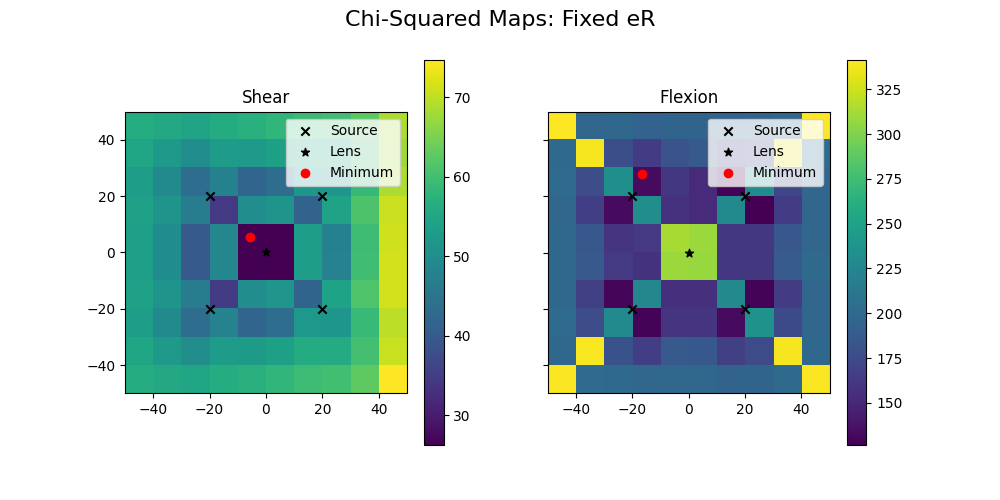
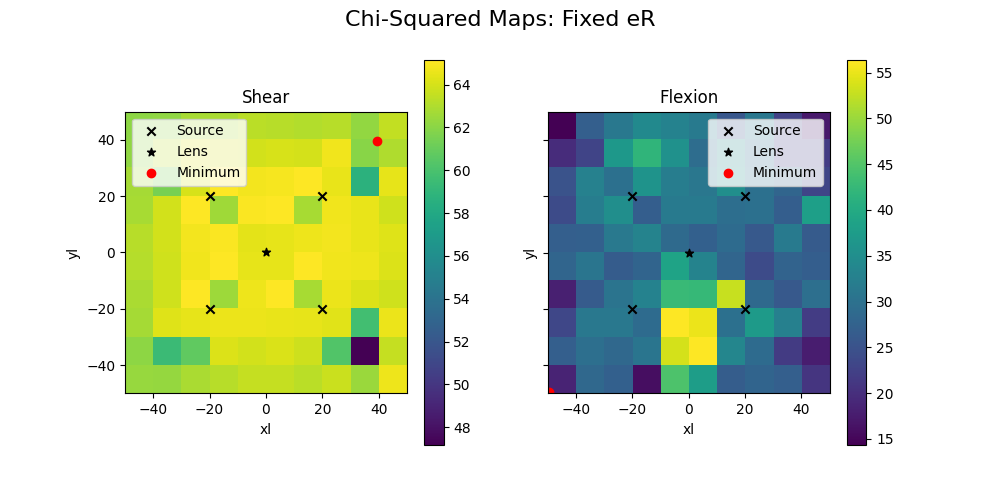
Update to minimization scheme

diff --git a/tests.py b/tests.py
@@ -288,7 +288,11 @@ def minimization_test():
     true_weights = []
     true_weights.append(np.exp(np.sum(np.log(np.array(shear_weights)), axis=0)))
     true_weights.append(np.exp(np.sum(np.log(np.array(flex_weights)), axis=0)))
-    
+    #Normalize
+    for i in range(len(true_weights)):
+        true_weights[i] /= np.sum(true_weights[i])
+
+
     #Okay, now try to reconstruct the weights by varying lens parameters, computing the weights, and then comparing the results
     #to the true weights. The goal is to find the lens parameters that minimize the difference between the true weights and the
     #reconstructed weights
@@ -300,19 +304,21 @@ def minimization_test():
         test_sources = Source(xs,ys,np.zeros(Nsource), np.zeros(Nsource), np.zeros(Nsource), np.zeros(Nsource))
         test_sources.calc_flex(test_lens)
         test_sources.calc_shear(test_lens)
-        test_weights = test_sources.weights(size,sigma_f=flex_noise,sigma_g=shear_noise, eRmin=1, eRmax=30)
-        return test_weights
+        shear_test, flex_text = test_sources.weights(size,sigma_f=flex_noise,sigma_g=shear_noise, eRmin=1, eRmax=30)
+        return shear_test, flex_text
     
     #Now perform a chi-squared minimization to find the best fit parameters
     #We need to define a function that takes in a set of lens parameters and returns the chi-squared value
-    def chi_squared(params, sigma1, sigma2):
+    def chi_squared(params):
         shear_test, flex_test = get_weights(params) #Get the weights
         shear_test = np.exp(np.sum(np.log(np.array(shear_test)), axis=0)) #Take the product of the weights in log space
         flex_test = np.exp(np.sum(np.log(np.array(flex_test)), axis=0))
+        #Normalize
+        shear_test /= np.sum(shear_test)
+        flex_test /= np.sum(flex_test)
 
         chi2_shear = np.sum(((shear_test - true_weights[0])**2) / true_weights[0]) #Compute the chi-squared value
         chi2_flex = np.sum(((flex_test - true_weights[1])**2) / true_weights[1])
-        print(chi2_shear, chi2_flex)
         return chi2_shear, chi2_flex
     
     #We're going to try a brute - force approach
@@ -320,9 +326,9 @@ def minimization_test():
     #We'll then evaluate the chi-squared value for each combination
     #And then find the minimum
 
-    xl_range = np.linspace(-size, size, 5) + 0.5
-    yl_range = np.linspace(-size, size, 5) + 0.5
-    eR_range = np.linspace(1, 30, 20)
+    xl_range = np.linspace(-size, size, 10) + 0.5
+    yl_range = np.linspace(-size, size, 10) + 0.5
+    eR_range = np.linspace(1, 30, 50)
 
     chi2_shear = np.zeros((len(xl_range), len(yl_range)))
     chi2_flex = np.zeros((len(xl_range), len(yl_range)))
@@ -330,7 +336,7 @@ def minimization_test():
     for i in range(len(xl_range)):
         for j in range(len(yl_range)):
             params = [[xl_range[i]], [yl_range[j]], [5]]
-            chi21, chi22 = chi_squared(params, shear_noise, flex_noise)
+            chi21, chi22 = chi_squared(params)
             chi2_shear[i,j] = chi21
             chi2_flex[i,j] = chi22
     
@@ -377,7 +383,7 @@ def minimization_test():
     
     for i in range(len(eR_range)):
         params = [[0], [0], [eR_range[i]]]
-        chi21, chi22 = chi_squared(params, shear_noise, flex_noise)
+        chi21, chi22 = chi_squared(params)
         eR_chi2_shear[i] = chi21
         eR_chi2_flex[i] = chi22
         
@@ -399,8 +405,6 @@ def minimization_test():
     plt.savefig('Images/chi_squared_eR.png')
     
     plt.show()
-
-
 
 
     
